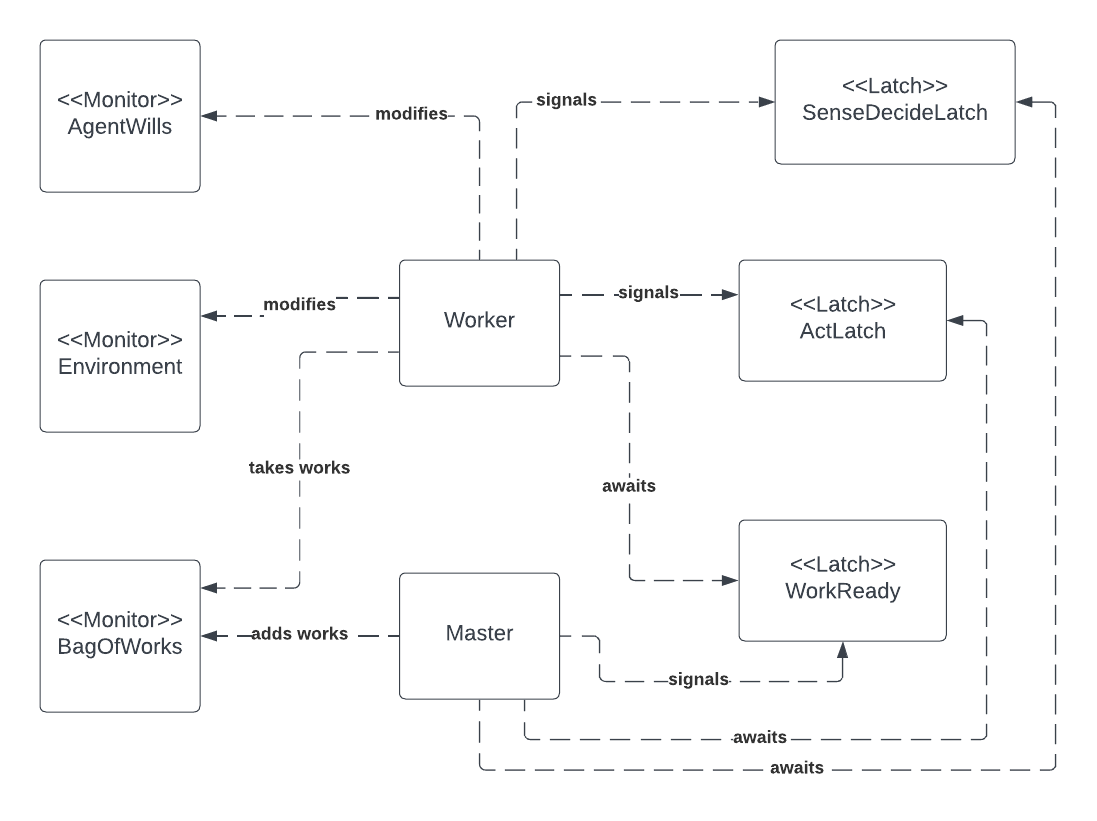
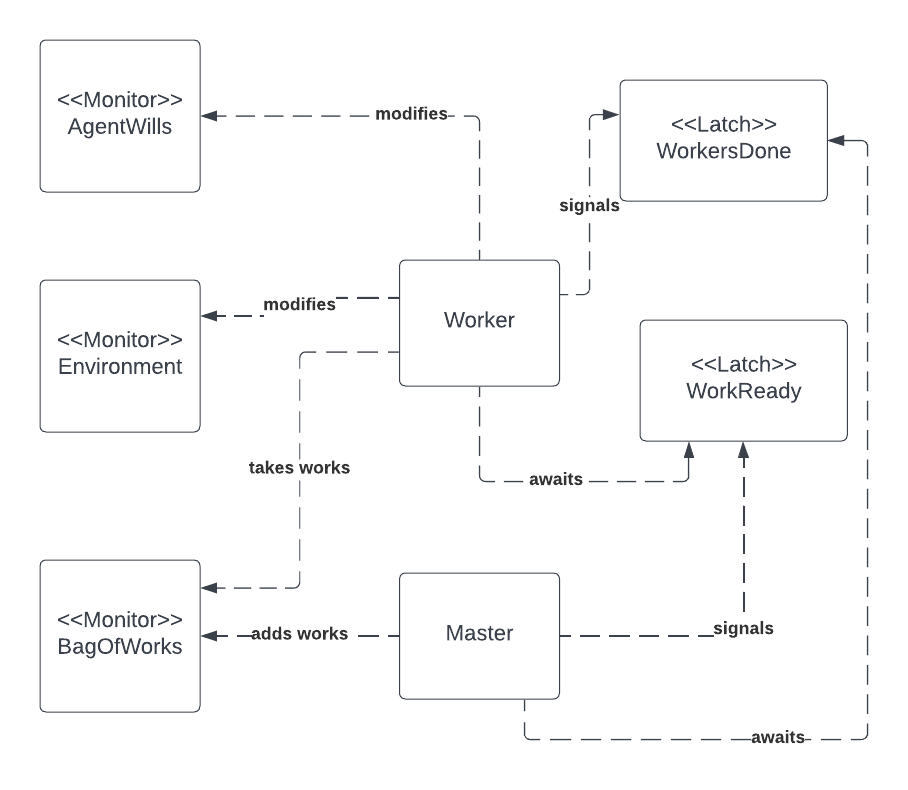
updated uml diagram in report

diff --git a/doc/report/main.tex b/doc/report/main.tex
@@ -111,7 +111,7 @@ The environment is implemented as a readers-writers monitor, which
  lets threads read from the environment in a parallel manner, but imposes
  that no writing can be executed concurrently with other writing or reading
 
-3 Latches are used for syncronization between master and workers.
+2 Latches are used for syncronization between master and workers.
 
 \begin{figure}
     \caption{UML diagram showing relationships between monitors, active components and syncronization components}
